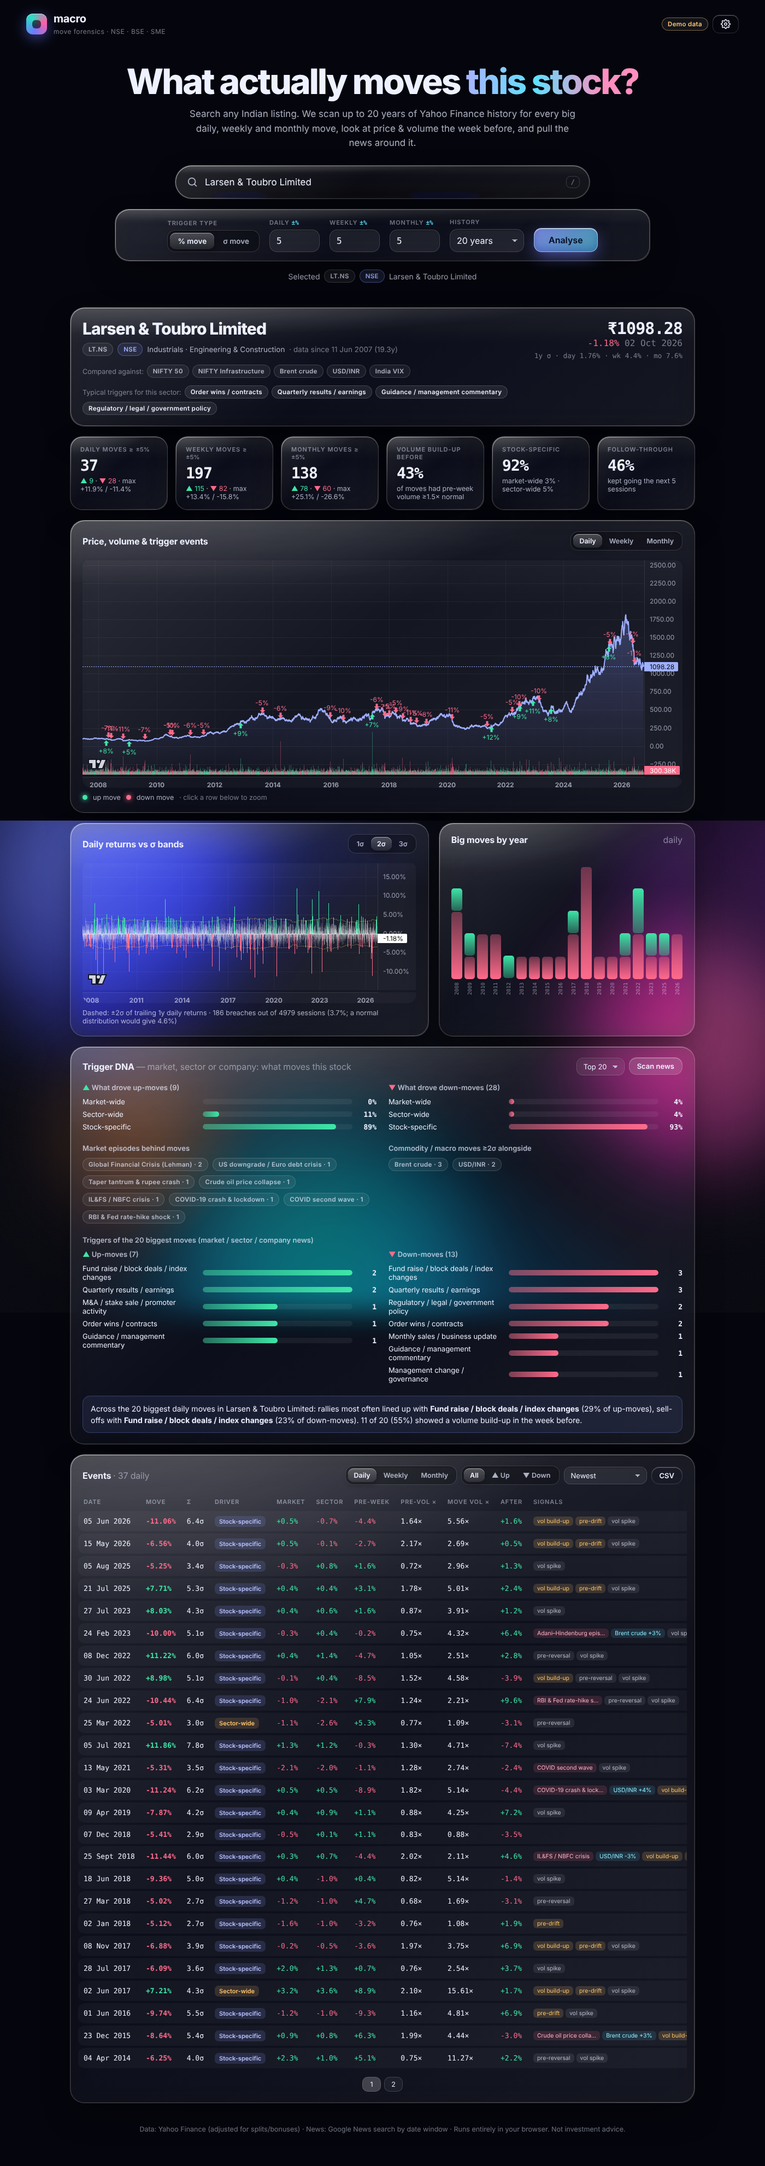
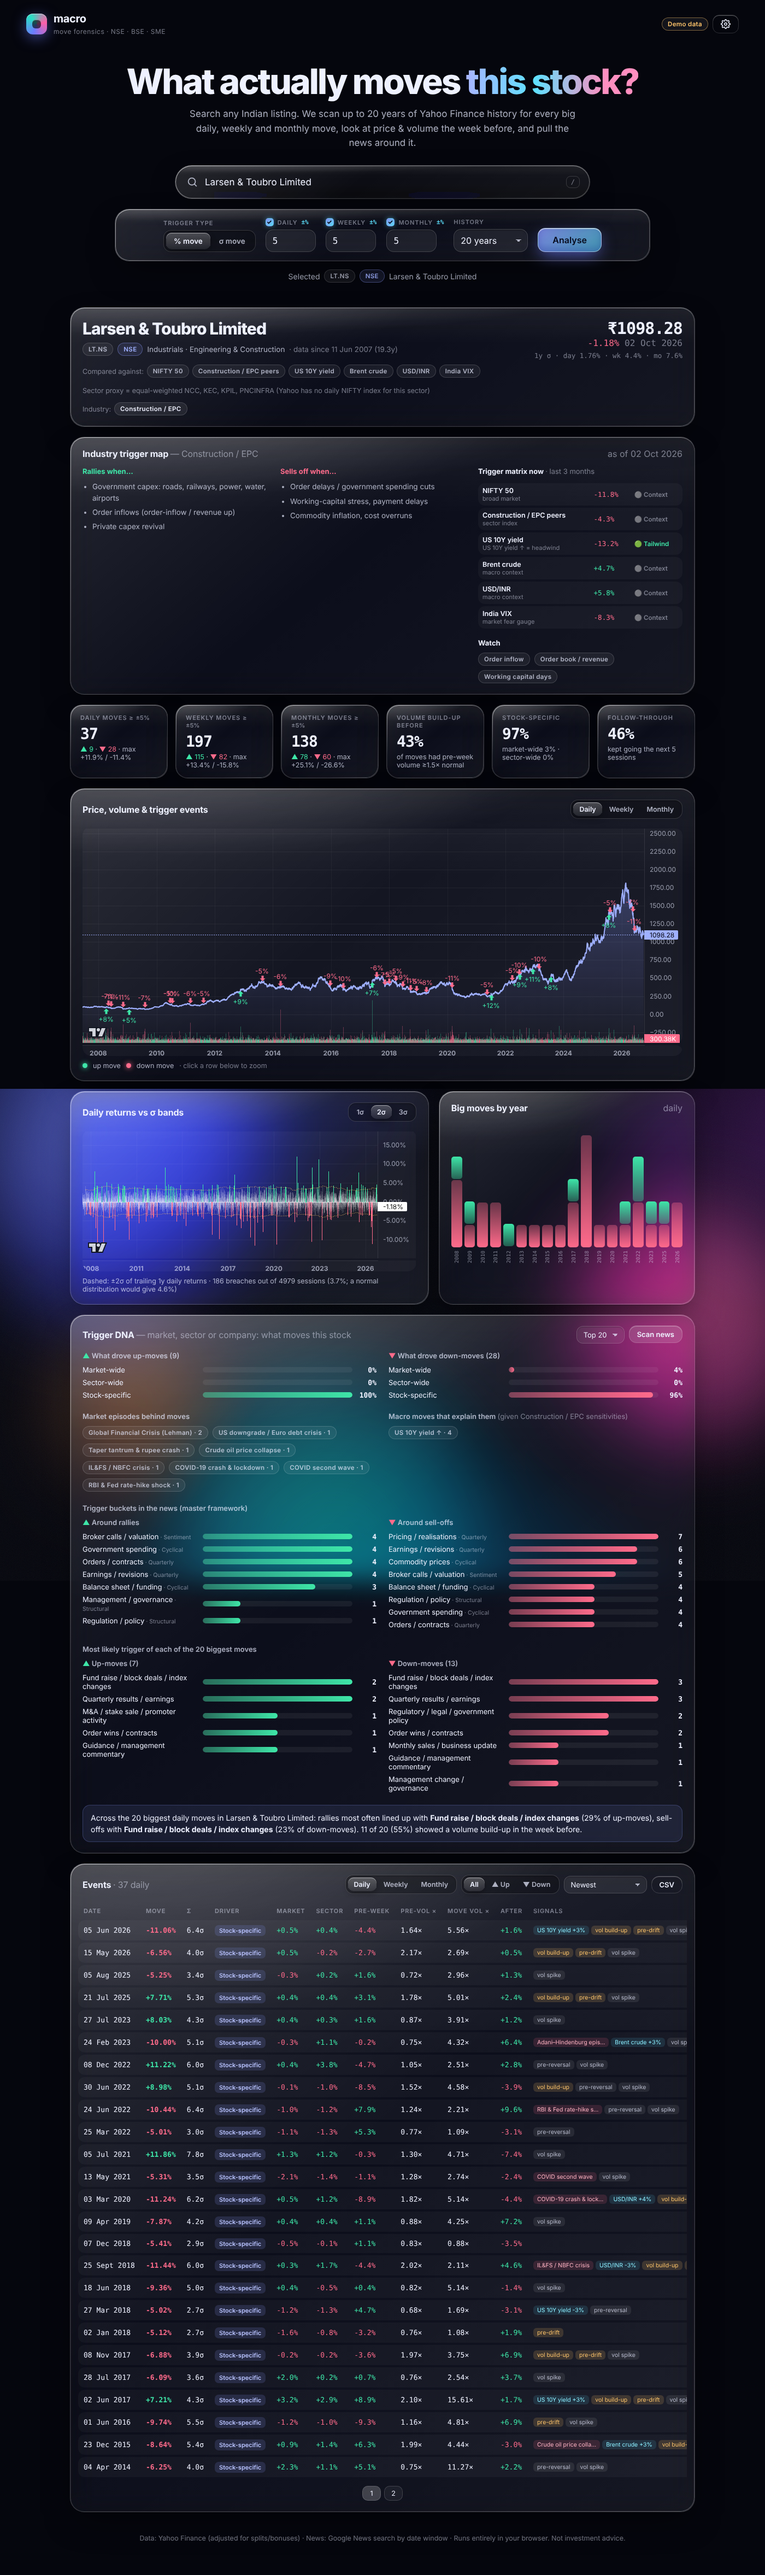
Fix renamed peer tickers; document the trigger engine and relay setup
Claude-Session: https://claude.ai/code/session_01SB3n2i79E3xu2Z6r8MAM22

diff --git a/site/js/playbooks.js b/site/js/playbooks.js
@@ -102,7 +102,7 @@ export const PLAYBOOKS = {
   gas: P("Gas distribution / utilities", /regulated gas|gas distribution|city gas|lng/i, { gas: -1, crude: 1 },
     ["Cheaper gas input (APM / LNG)", "CNG/PNG volume growth", "Higher crude makes CNG competitive"],
     ["Gas price spikes / APM cuts", "Regulatory margin caps, EV threat"],
-    ["Volumes (mmscmd)", "EBITDA/scm"], "natural gas price CGD", { peers: ["IGL.NS", "MGL.NS", "GUJGASLTD.NS", "GAIL.NS", "PETRONET.NS"] }),
+    ["Volumes (mmscmd)", "EBITDA/scm"], "natural gas price CGD", { peers: ["IGL.NS", "MGL.NS", "GAIL.NS", "PETRONET.NS"] }),
   chemicals: P("Chemicals", /chemical/i, { crude: -1, inr: 1, china: -1 },
     ["China supply cuts / environmental shutdowns", "Import substitution, export demand", "Product price increases, lower feedstock", "Rupee depreciation"],
     ["Chinese dumping / global oversupply", "Capacity additions, destocking", "Feedstock inflation", "Product price collapse"],
@@ -138,7 +138,7 @@ export const PLAYBOOKS = {
   epc: P("Construction / EPC", /engineering & construction|construction|infrastructure operations|epc/i, { rates: -1 },
     ["Government capex: roads, railways, power, water, airports", "Order inflows (order-inflow / revenue up)", "Private capex revival"],
     ["Order delays / government spending cuts", "Working-capital stress, payment delays", "Commodity inflation, cost overruns"],
-    ["Order inflow", "Order book / revenue", "Working capital days"], "infrastructure capex orders", { peers: ["LT.NS", "NCC.NS", "KEC.NS", "KALPATPOWR.NS", "PNCINFRA.NS"] }),
+    ["Order inflow", "Order book / revenue", "Working capital days"], "infrastructure capex orders", { peers: ["LT.NS", "NCC.NS", "KEC.NS", "KPIL.NS", "PNCINFRA.NS"] }),
   capital_goods: P("Capital goods / engineering", /industrial machinery|electrical equipment|machinery|farm & heavy|tools & accessories|conglomerates|industrial distribution|pollution|metal fabrication/i, { rates: -1, copper: -1, steel: -1 },
     ["Private & government capex, PLI, FDI", "Order-book acceleration", "Manufacturing PMI / capacity utilisation up", "Export orders, automation"],
     ["Capex postponements, high rates", "Order cancellations, weak IIP", "Commodity inflation", "China competition"],
@@ -150,7 +150,7 @@ export const PLAYBOOKS = {
   transmission: P("Power transmission / regulated", /regulated electric|transmission|power grid/i, { rates: -1 },
     ["Renewable additions, green corridors, grid expansion", "Data-centre demand, electrification", "Higher regulated returns"],
     ["Project delays, lower capex", "Regulatory disallowances, higher interest costs"],
-    ["Capex", "Regulated equity", "Bids won"], "power transmission capex", { peers: ["POWERGRID.NS", "KEC.NS", "KALPATPOWR.NS", "SIEMENS.NS"] }),
+    ["Capex", "Regulated equity", "Bids won"], "power transmission capex", { peers: ["POWERGRID.NS", "KEC.NS", "KPIL.NS", "SIEMENS.NS"] }),
   renewables: P("Renewable energy", /renewable|solar|wind/i, { rates: -1 },
     ["Lower module prices, lower rates", "Renewable auctions, corporate PPAs", "Storage economics improve, incentives"],
     ["Higher interest rates", "Module price inflation / import restrictions", "Policy uncertainty, grid constraints"],

diff --git a/README.md b/README.md
@@ -4,26 +4,22 @@
 
 Search any Indian listed company, pick its ticker, and the site will:
 
-1. **Pull up to 20 years (or the full listed history)** of daily prices & volumes from Yahoo Finance (split/bonus adjusted).
-2. **Find every big move**, daily, weekly and monthly, using either:
-   - **% move**: e.g. ±5% in a day, a week or a month, or
-   - **σ move**: e.g. a 2σ move, where σ is the trailing standard deviation of that frame's returns over a 1/2/3/5-year lookback. The current period is excluded, so there's no look-ahead.
-3. **Look at the week before each move** (5 sessions before the period starts):
-   - price drift in the same or the opposite direction
-   - volume build-up vs the 50-day baseline before that week (≥1.5× is flagged)
-   - volume during the move, the index (NIFTY 50 / SENSEX) move over the same period (market-driven or stock-specific), and the next 5 sessions (follow-through or reversal)
-4. **Separate market, sector and company moves.** For every move, the app checks the same period (and the week before) in:
-   - the broad market (NIFTY 50 / SENSEX);
-   - the stock's NIFTY sector index (Auto, Bank, Financial Services, IT, Pharma, Metal, Energy, Realty, FMCG, Media, Infrastructure);
-   - commodities and macro factors relevant to the sector: Brent crude, natural gas, gold, silver, copper, aluminium, steel (HRC), sugar, cotton, USD/INR, the US 10-year yield, and India VIX. Each is scored in σ against its own volatility, so a "notable" move means one that was unusual for that commodity.
-   - a dated list of market-wide episodes: GFC 2008, taper tantrum, the 2014–16 oil crash, demonetisation, IL&FS, COVID crash and second wave, Russia–Ukraine, Adani–Hindenburg, election results, Union Budgets, US tariffs and more.
+1. **Pull up to 20 years (or full listed history)** of daily prices and volumes from Yahoo Finance (split/bonus adjusted).
+2. **Find every big move.** You choose the frames (any of **daily**, **weekly**, **monthly**) and the trigger type:
+   - **% move:** e.g. ±5%.
+   - **σ move:** e.g. 2σ, measured against the trailing 1/2/3/5-year standard deviation of that frame's returns. There is no look-ahead.
+3. **Look at the week before each move:** price drift, volume build-up vs the 50-day baseline, volume on the move, and follow-through over the next 5 sessions.
+4. **Separate market, sector and company drivers.** Each move is compared with NIFTY/SENSEX and with the stock's sector, then labelled market-wide, sector-wide or stock-specific. The sector is the real NIFTY index where Yahoo has daily history (Bank, IT, Pharma); otherwise it is an equal-weighted basket of the industry's listed leaders.
+5. **Run the industry trigger engine.** About 45 Indian industry playbooks (banks, NBFCs, IT, cement, EPC, capital goods, autos, steel, chemicals, pharma, FMCG, airlines, real estate, defence, railways…) each list:
+   - what makes the industry rally or sell off, and the metrics to watch;
+   - its **macro sensitivities**: rates, USD/INR, crude, the dollar, China, US equities, metals, gas, sugar, cotton, gold, VIX, and mid-cap liquidity.
 
-   Each move is labelled **market-wide** (the index moved at least half as much in the same direction), **sector-wide** (the sector index did), or **stock-specific**.
-5. **Pull the news around the move** (from 1 week before to 2 days after) and tag each headline as a trigger type: order wins, monthly sales, results, guidance/capex, dividends/bonus/splits, M&A/promoter activity, QIP/block deals, broker calls, regulatory/USFDA/policy, management change, or macro.
-   For market- and sector-wide moves it also searches market news (Sensex/Nifty) and sector or commodity news (e.g. "crude oil price").
-6. **Trigger DNA** shows the market / sector / stock split for up-moves and down-moves, which episodes and commodity moves lined up with them, and then scans the news behind the N biggest moves and shows what usually moves *this* stock. For example, orders for capital goods companies and monthly sales numbers for autos. The sector's typical triggers are shown as a "playbook".
+   Each move then gets a **trigger chain** (macro → industry → company → direction). A macro factor counts as an explanation only when it moved at least 1.5σ in the direction that would cause this move for this industry; for example, crude −9% is a tailwind for airlines.
+6. **Show a trigger matrix now:** each factor's last-3-month move, and whether that is a tailwind or a headwind for the industry.
+7. **Pull news around each move:** company, sector/commodity and market headlines from Google News for that date window. Each headline is tagged with an event type, a **master trigger bucket** (demand, pricing, costs, margins, capacity, competition, regulation, rates, currency, commodities, government spending, orders, credit cycle, liquidity, technology, inventory, balance sheet, M&A, earnings, positioning, macro shock, monsoon, inflation, management) with its horizon tier (structural / cyclical / quarterly / sentiment), and a tone. Company headlines that don't actually name the company are dropped.
+8. **Trigger DNA:** for the biggest moves, shows the market/sector/stock split, which episodes and macro factors explained them, and which trigger buckets dominate around rallies vs sell-offs.
 
-There is also a daily returns vs ±kσ bands chart (with the breach rate vs what a normal distribution would give), a chart of big moves by year, an event table you can sort and filter, CSV export, and shareable URLs (`/#LT.NS`).
+Also included: a market-episode calendar (COVID, GFC, demonetisation, elections, Union Budgets, RBI surprises, US tariffs…), a returns-vs-σ-bands chart, CSV export, and shareable links (`/#LT.NS`).
 
 ## Tickers
 
@@ -43,17 +39,19 @@ The site is fully static: all analysis runs in the visitor's browser, so it is h
 - **Demo with synthetic data:** https://arhamsaraogi-star.github.io/macro/?demo=1
 - **Deploys:** `.github/workflows/pages.yml` runs the tests and publishes `site/` to the `gh-pages` branch on every push to the default branch. Pages serves that branch.
 
-### Data relay
+### Data relay (one-time, ~2 minutes)
 
-Yahoo Finance and Google News don't allow direct calls from other websites (no CORS headers), so the browser fetches them through a relay:
+Yahoo Finance and Google News don't allow requests from other websites, and the free public CORS relays are all down or paid now (tested in CI). The site therefore reads data through **your own free Cloudflare Worker**:
 
-1. **By default:** a chain of free public CORS relays (allorigins, codetabs, corsproxy.io). This needs no setup, but they can be slow, rate-limited or down.
-2. **Recommended:** your own free Cloudflare Worker.
-   - Go to [dash.cloudflare.com](https://dash.cloudflare.com) → **Workers & Pages** → **Create** → **Worker**.
-   - Paste [`relay/worker.js`](relay/worker.js) and click **Deploy**.
-   - Copy the `https://….workers.dev` URL and paste it into the site's **Settings** (gear icon, top right).
+1. Go to [dash.cloudflare.com](https://dash.cloudflare.com/sign-up/workers-and-pages) → **Workers & Pages** → **Create** → **Create Worker** → name it `macro-relay` → **Deploy**.
+2. Click **Edit code**, replace everything with [`relay/worker.js`](relay/worker.js), and click **Deploy**.
+3. Copy the `https://macro-relay.<you>.workers.dev` URL and paste it into the site's setup box or **Settings** (gear icon).
 
-   The worker only forwards requests to Yahoo Finance and Google News, caches them for 1 hour, and the free tier allows 100k requests a day. The relay URL is saved in your browser only.
+The worker only forwards to Yahoo Finance and Google News, caches responses for an hour, and stays within the free tier (100k requests a day). To make the site work for **every** visitor, put the URL in `site/config.js` (`relay: "https://…"`). To share a ready-to-use link instead, use `https://arhamsaraogi-star.github.io/macro/?relay=<url>`.
+
+`.github/workflows/relay-test.yml` runs the worker locally in CI and fetches real Yahoo and Google News data through it.
+
+Company search doesn't need the relay: it uses the official NSE (main board + SME) and BSE lists, built into the site on each deploy and refreshed weekly.
 
 ## Develop
 
@@ -72,7 +70,10 @@ site/
   js/analysis.js             period returns, % / σ thresholds, pre-week forensics, summaries
   js/market.js               Yahoo search/chart + Google News through the relay chain
   js/news.js                 headline -> trigger classification, sector playbooks
-  js/context.js              sector indices, commodity/macro factors, market-episode calendar
+  js/context.js              macro factors, sector index / peer baskets, market-episode calendar
+  js/playbooks.js            industry trigger playbooks, master trigger buckets, macro triggers
+  config.js                  site-wide relay URL
+scripts/build-tickers.mjs    builds site/data/tickers.json from NSE / BSE lists (CI)
   js/demo.js                 synthetic data for ?demo=1
   vendor/                    TradingView lightweight-charts (Apache-2.0)
 relay/worker.js              optional Cloudflare Worker relay
@@ -82,7 +83,8 @@ tests/                       node:test unit tests
 ## Caveats
 
 - Yahoo Finance is unofficial. Coverage of SME stocks and very old history can be patchy, and some SME counters only exist on one exchange.
-- BSE SME stocks can't be told apart from BSE main-board stocks by their Yahoo ticker, so they show as BSE.
+- Yahoo has no daily history for most NIFTY sector indices, so those sectors use a basket of 3–5 listed leaders as a proxy.
+- Rates sensitivity uses the US 10-year yield (Yahoo has no Indian G-sec series). Indian rate events are covered through the episode calendar (RBI surprises) and rate headlines.
 - Google News coverage before ~2010 and for small companies is thin. The trigger classification uses keyword rules, so treat it as a lead to read the headlines, not a verdict.
 - The market-wide label is mechanical. For heavyweight index stocks (e.g. Reliance, HDFC Bank), the stock itself moves the index, so a "market-wide" label there can be partly self-caused.
 - The episode calendar is hand-curated and won't cover every event. Add to `EPISODES` in `site/js/context.js`.
